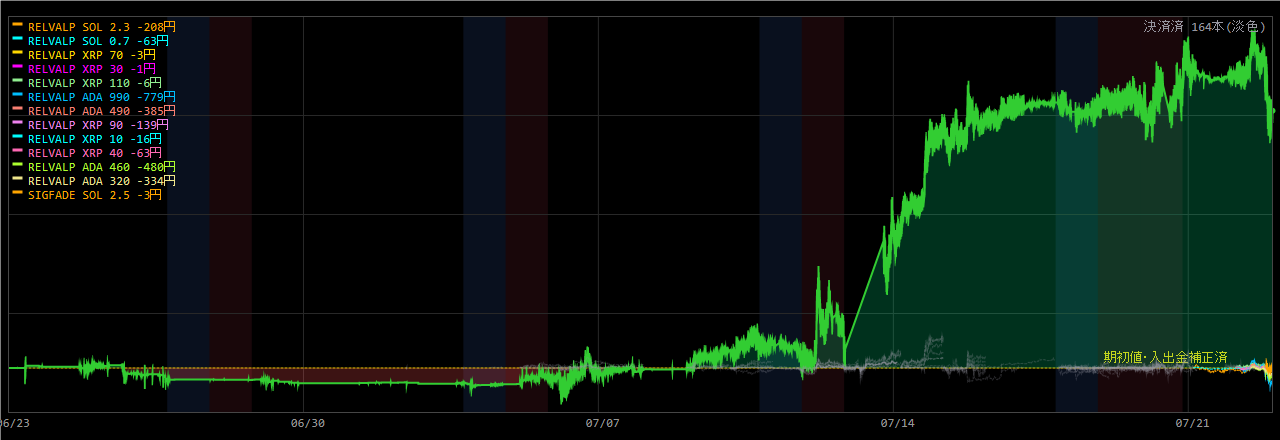
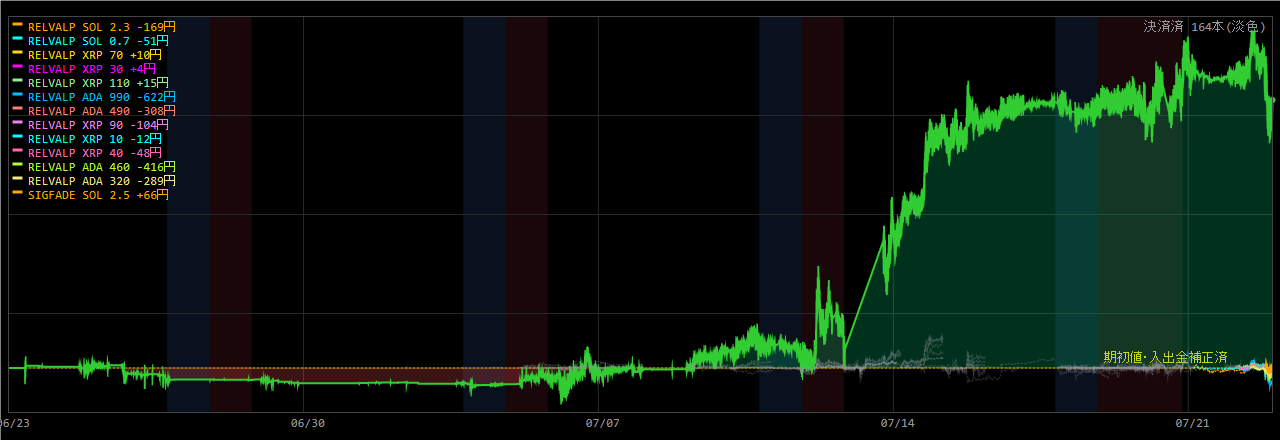
Coin100S 運用状況更新 07-23 03:17

diff --git a/coin100s-795hc4jfv8/index.html b/coin100s-795hc4jfv8/index.html
@@ -14,16 +14,16 @@ a{color:#60a5fa;text-decoration:none} a:hover{text-decoration:underline}
 .meta{color:#94a3b8;font-size:13px}</style>
 <script>setTimeout(function(){location.replace(location.pathname+"?t="+Date.now());},300000);</script></head><body>
 <h1>Coin100S ダッシュボード</h1>
-<p class="meta">スナップショット: 2026-07-23 03:11:05(自動リロード・最新化)</p>
+<p class="meta">スナップショット: 2026-07-23 03:17:05(自動リロード・最新化)</p>
 <div class="cards">
 <div class="card">建玉数<div class="v">13</div></div>
 <div class="card">本日損益<div class="v pos">+490円</div></div>
-<div class="card">評価損益<div class="v neg">-2,319円</div></div>
+<div class="card">評価損益<div class="v neg">-1,868円</div></div>
 </div>
 <h2>現在の建玉</h2>
-<table><tr><th>銘柄</th><th>側</th><th>数量</th><th>建値</th><th>含損益</th><th>レッグ</th></tr><tr><td>ADA_JPY</td><td>SELL</td><td>320</td><td>@28</td><td>-330円</td><td>RELVALP_SL700</td></tr><tr><td>ADA_JPY</td><td>SELL</td><td>460</td><td>@28</td><td>-474円</td><td>RELVALP_SELL</td></tr><tr><td>ADA_JPY</td><td>SELL</td><td>490</td><td>@28</td><td>-377円</td><td>RELVALP_SL700</td></tr><tr><td>ADA_JPY</td><td>SELL</td><td>990</td><td>@28</td><td>-762円</td><td>RELVALP_SELL</td></tr><tr><td>SOL_JPY</td><td>SELL</td><td>2.5</td><td>@12,763</td><td>+52円</td><td>SIGFADE_SOL</td></tr><tr><td>SOL_JPY</td><td>SELL</td><td>0.7</td><td>@12,663</td><td>-56円</td><td>RELVALP_SL700</td></tr><tr><td>SOL_JPY</td><td>SELL</td><td>2.3</td><td>@12,663</td><td>-182円</td><td>RELVALP_SELL</td></tr><tr><td>XRP_JPY</td><td>SELL</td><td>40</td><td>@186</td><td>-56円</td><td>RELVALP_SL700</td></tr><tr><td>XRP_JPY</td><td>SELL</td><td>10</td><td>@186</td><td>-14円</td><td>RELVALP_SELL</td></tr><tr><td>XRP_JPY</td><td>SELL</td><td>90</td><td>@186</td><td>-122円</td><td>RELVALP_SELL</td></tr><tr><td>XRP_JPY</td><td>SELL</td><td>110</td><td>@187</td><td>+1円</td><td>RELVALP_SELL</td></tr><tr><td>XRP_JPY</td><td>SELL</td><td>30</td><td>@187</td><td>0円</td><td>RELVALP_SELL</td></tr><tr><td>XRP_JPY</td><td>SELL</td><td>70</td><td>@187</td><td>+1円</td><td>RELVALP_SL700</td></tr></table>
+<table><tr><th>銘柄</th><th>側</th><th>数量</th><th>建値</th><th>含損益</th><th>レッグ</th></tr><tr><td>ADA_JPY</td><td>SELL</td><td>320</td><td>@28</td><td>-274円</td><td>RELVALP_SL700</td></tr><tr><td>ADA_JPY</td><td>SELL</td><td>460</td><td>@28</td><td>-393円</td><td>RELVALP_SELL</td></tr><tr><td>ADA_JPY</td><td>SELL</td><td>490</td><td>@28</td><td>-292円</td><td>RELVALP_SL700</td></tr><tr><td>ADA_JPY</td><td>SELL</td><td>990</td><td>@28</td><td>-589円</td><td>RELVALP_SELL</td></tr><tr><td>SOL_JPY</td><td>SELL</td><td>2.5</td><td>@12,763</td><td>+52円</td><td>SIGFADE_SOL</td></tr><tr><td>SOL_JPY</td><td>SELL</td><td>0.7</td><td>@12,663</td><td>-56円</td><td>RELVALP_SL700</td></tr><tr><td>SOL_JPY</td><td>SELL</td><td>2.3</td><td>@12,663</td><td>-182円</td><td>RELVALP_SELL</td></tr><tr><td>XRP_JPY</td><td>SELL</td><td>40</td><td>@186</td><td>-54円</td><td>RELVALP_SL700</td></tr><tr><td>XRP_JPY</td><td>SELL</td><td>10</td><td>@186</td><td>-14円</td><td>RELVALP_SELL</td></tr><tr><td>XRP_JPY</td><td>SELL</td><td>90</td><td>@186</td><td>-117円</td><td>RELVALP_SELL</td></tr><tr><td>XRP_JPY</td><td>SELL</td><td>110</td><td>@187</td><td>+7円</td><td>RELVALP_SELL</td></tr><tr><td>XRP_JPY</td><td>SELL</td><td>30</td><td>@187</td><td>+2円</td><td>RELVALP_SELL</td></tr><tr><td>XRP_JPY</td><td>SELL</td><td>70</td><td>@187</td><td>+5円</td><td>RELVALP_SL700</td></tr></table>
 <p><a href="status.html"><b>▶ 運用状況の詳細(チャート・本日の取引・レジーム)</b></a></p>
 <h2>日報一覧</h2>
 <table><tr><th>取引日</th><th>実現損益</th><th>総括</th></tr><tr><td><a href='reports/20260721_Coin100S日報.html'>2026-07-21</a></td><td class="pos">+0円</td><td class='meta'>実取引: 新規4件/決済13件、実現損益 +0円。⚠警告/エラー 13件（要確認）。</td></tr><tr><td><a href='reports/20260720_Coin100S日報.html'>2026-07-20</a></td><td class="pos">+0円</td><td class='meta'>実取引: 新規8件/決済21件、実現損益 +0円。シグナル却下8件（最多: BW10M3_5M／トレンド方向ゲート(N分傾き上と不一致=逆張り方向のfade禁止)）。⚠警告/エラー 13件（要確認）。</td></tr><tr><td><a href='reports/20260719_Coin100S日報.html'>2026-07-19</a></td><td class="pos">+0円</td><td class='meta'>実取引: 新規10件/決済7件、実現損益 +0円。⚠警告/エラー 3件（要確認）。</td></tr><tr><td><a href='reports/20260718_Coin100S日報.html'>2026-07-18</a></td><td class="pos">+0円</td><td class='meta'>実取引: 新規9件/決済8件、実現損益 +0円。警告/孤児/エラーなし＝健全。</td></tr><tr><td><a href='reports/20260717_Coin100S日報.html'>2026-07-17</a></td><td class="pos">+0円</td><td class='meta'>実取引: 新規3件/決済2件、実現損益 +0円。シグナル却下1件（最多: BW10M3_5M／トレンド方向ゲート(N分傾き下と不一致=逆張り方向のfade禁止)）。⚠警告/エラー 2件（要確認）。</td></tr><tr><td><a href='reports/20260716_Coin100S日報.html'>2026-07-16</a></td><td class="pos">+0円</td><td class='meta'>実取引: 新規0件/決済5件、実現損益 +0円。⚠警告/エラー 7件（要確認）。</td></tr><tr><td><a href='reports/20260715_Coin100S日報.html'>2026-07-15</a></td><td class="pos">+0円</td><td class='meta'>実取引: 新規6件/決済5件、実現損益 +0円。シグナル却下6件（最多: BW10M3_5M／トレンド方向ゲート(N分傾き上と不一致=逆張り方向のfade禁止)）。⚠警告/エラー 7件（要確認）。</td></tr><tr><td><a href='reports/20260714_Coin100S日報.html'>2026-07-14</a></td><td class="pos">+0円</td><td class='meta'>実取引: 新規6件/決済18件、実現損益 +0円。シグナル却下5件（最多: BW10M3_5M／トレンド方向ゲート(N分傾き上と不一致=逆張り方向のfade禁止)）。⚠警告/エラー 9件（要確認）。</td></tr><tr><td><a href='reports/20260713_Coin100S日報.html'>2026-07-13</a></td><td class="pos">+0円</td><td class='meta'>実取引: 新規5件/決済8件、実現損益 +0円。シグナル却下1件（最多: BW10M3_5M／トレンド方向ゲート(N分傾き上と不一致=逆張り方向のfade禁止)）。警告/孤児/エラーなし＝健全。</td></tr><tr><td><a href='reports/20260712_Coin100S日報.html'>2026-07-12</a></td><td class="pos">+0円</td><td class='meta'>実取引: 新規14件/決済6件、実現損益 +0円。シグナル却下5件（最多: BW10M3_5M／トレンド方向ゲート(N分傾き下と不一致=逆張り方向のfade禁止)）。⚠警告/エラー 2件（要確認）。</td></tr><tr><td><a href='reports/20260711_Coin100S日報.html'>2026-07-11</a></td><td class="pos">+0円</td><td class='meta'>実取引: 新規7件/決済6件、実現損益 +0円。⚠警告/エラー 52件（要確認）。</td></tr><tr><td><a href='reports/20260710_Coin100S日報.html'>2026-07-10</a></td><td class="pos">+0円</td><td class='meta'>実取引: 新規7件/決済6件、実現損益 +0円。シグナル却下6件（最多: BW10M3_5M／トレンド方向ゲート(N分傾き上と不一致=逆張り方向のfade禁止)）。警告/孤児/エラーなし＝健全。</td></tr><tr><td><a href='reports/20260709_Coin100S日報.html'>2026-07-09</a></td><td class="pos">+0円</td><td class='meta'>実取引: 新規8件/決済3件、実現損益 +0円。シグナル却下5件（最多: SD120M_5M／トレンド方向ゲート(N分傾き上と不一致=逆張り方向のfade禁止)）。警告/孤児/エラーなし＝健全。</td></tr><tr><td><a href='reports/20260708_Coin100S日報.html'>2026-07-08</a></td><td class="pos">+0円</td><td class='meta'>実取引: 新規2件/決済4件、実現損益 +0円。シグナル却下4件（最多: SD120M_5M／トレンド方向ゲート(N分傾き下と不一致=逆張り方向のfade禁止)）。警告/孤児/エラーなし＝健全。</td></tr><tr><td><a href='reports/20260707_Coin100S日報.html'>2026-07-07</a></td><td class="pos">+0円</td><td class='meta'>実取引: 新規8件/決済6件、実現損益 +0円。シグナル却下4件（最多: SD120M_5M／トレンド方向ゲート(N分傾き上と不一致=逆張り方向のfade禁止)）。⚠警告/エラー 258件（要確認）。</td></tr><tr><td><a href='reports/20260706_Coin100S日報.html'>2026-07-06</a></td><td class="pos">+0円</td><td class='meta'>実取引: 新規9件/決済6件、実現損益 +0円。シグナル却下9件（最多: SD120M_5M／トレンド方向ゲート(N分傾き上と不一致=逆張り方向のfade禁止)）。⚠警告/エラー 150件（要確認）。</td></tr><tr><td><a href='reports/20260705_Coin100S日報.html'>2026-07-05</a></td><td class="pos">+0円</td><td class='meta'>実取引: 新規8件/決済3件、実現損益 +0円。⚠警告/エラー 2件（要確認）。</td></tr><tr><td><a href='reports/20260704_Coin100S日報.html'>2026-07-04</a></td><td class="pos">+0円</td><td class='meta'>実取引: 新規1件/決済2件、実現損益 +0円。⚠警告/エラー 2件（要確認）。</td></tr><tr><td><a href='reports/20260703_Coin100S日報.html'>2026-07-03</a></td><td class="pos">+0円</td><td class='meta'>実取引: 新規5件/決済4件、実現損益 +0円。⚠警告/エラー 15件（要確認）。</td></tr><tr><td><a href='reports/20260702_Coin100S日報.html'>2026-07-02</a></td><td class="pos">+0円</td><td class='meta'>実取引: 新規7件/決済5件、実現損益 +0円。シグナル却下17件（最多: SD120M_5M／トレンド方向ゲート(N分傾き上と不一致=逆張り方向のfade禁止)）。⚠警告/エラー 26件（要確認）。</td></tr><tr><td><a href='reports/20260701_Coin100S日報.html'>2026-07-01</a></td><td class="pos">+0円</td><td class='meta'>実取引: 新規14件/決済8件、実現損益 +0円。シグナル却下14件（最多: SD120M_5M／ボラ軸ゲート(SDN%&amp;gt;N%=高ボラ/荒れレンジ)）。⚠警告/エラー 2件（要確認）。</td></tr><tr><td><a href='reports/20260630_Coin100S日報.html'>2026-06-30</a></td><td class="pos">+0円</td><td class='meta'>実取引: 新規0件/決済1件、実現損益 +0円。シグナル却下29件（最多: 微5M／当日枠N）。警告/孤児/エラーなし＝健全。</td></tr></table>
-<hr><p class="meta">更新: 2026-07-23 03:11:07 / 自動生成: tools/web_publish.py(§580)</p>
+<hr><p class="meta">更新: 2026-07-23 03:17:06 / 自動生成: tools/web_publish.py(§580)</p>
 </body></html>

diff --git a/coin100s-795hc4jfv8/status.html b/coin100s-795hc4jfv8/status.html
@@ -14,22 +14,22 @@ a{color:#60a5fa;text-decoration:none} a:hover{text-decoration:underline}
 .meta{color:#94a3b8;font-size:13px}</style>
 <script>setTimeout(function(){location.replace(location.pathname+"?t="+Date.now());},300000);</script></head><body>
 <h1>Coin100S 運用状況</h1>
-<p class="meta">スナップショット: 2026-07-23 03:10:35 / ページ生成: 2026-07-23 03:11:07(自動リロード・最新化) / <a href="index.html">目次へ</a></p>
+<p class="meta">スナップショット: 2026-07-23 03:16:35 / ページ生成: 2026-07-23 03:17:06(自動リロード・最新化) / <a href="index.html">目次へ</a></p>
 <div class="cards">
 <div class="card">建玉数<div class="v">13</div></div>
 <div class="card">本日損益<div class="v pos">+490円</div></div>
-<div class="card">評価損益<div class="v neg">-2,260円</div></div>
+<div class="card">評価損益<div class="v neg">-1,868円</div></div>
 </div>
 <h2>資産推移(直近30日)</h2>
-<img src="status_equity.png?t=0311" alt="equity">
+<img src="status_equity.png?t=0317" alt="equity">
 <h2>取引チャート(直近24h)</h2>
-<img src="status_chart.png?t=0311" alt="chart">
+<img src="status_chart.png?t=0317" alt="chart">
 <h2>建玉一覧</h2>
-<table><tr><th>銘柄</th><th>側</th><th>数量</th><th>建値</th><th>含損益</th><th>レッグ</th></tr><tr><td>ADA_JPY</td><td>SELL</td><td>320</td><td>@28</td><td>-330円</td><td>RELVALP_SL700</td></tr><tr><td>ADA_JPY</td><td>SELL</td><td>460</td><td>@28</td><td>-474円</td><td>RELVALP_SELL</td></tr><tr><td>ADA_JPY</td><td>SELL</td><td>490</td><td>@28</td><td>-377円</td><td>RELVALP_SL700</td></tr><tr><td>ADA_JPY</td><td>SELL</td><td>990</td><td>@28</td><td>-762円</td><td>RELVALP_SELL</td></tr><tr><td>SOL_JPY</td><td>SELL</td><td>2.5</td><td>@12,763</td><td>+52円</td><td>SIGFADE_SOL</td></tr><tr><td>SOL_JPY</td><td>SELL</td><td>0.7</td><td>@12,663</td><td>-56円</td><td>RELVALP_SL700</td></tr><tr><td>SOL_JPY</td><td>SELL</td><td>2.3</td><td>@12,663</td><td>-182円</td><td>RELVALP_SELL</td></tr><tr><td>XRP_JPY</td><td>SELL</td><td>40</td><td>@186</td><td>-49円</td><td>RELVALP_SL700</td></tr><tr><td>XRP_JPY</td><td>SELL</td><td>10</td><td>@186</td><td>-13円</td><td>RELVALP_SELL</td></tr><tr><td>XRP_JPY</td><td>SELL</td><td>90</td><td>@186</td><td>-107円</td><td>RELVALP_SELL</td></tr><tr><td>XRP_JPY</td><td>SELL</td><td>110</td><td>@187</td><td>+20円</td><td>RELVALP_SELL</td></tr><tr><td>XRP_JPY</td><td>SELL</td><td>30</td><td>@187</td><td>+5円</td><td>RELVALP_SELL</td></tr><tr><td>XRP_JPY</td><td>SELL</td><td>70</td><td>@187</td><td>+13円</td><td>RELVALP_SL700</td></tr></table>
+<table><tr><th>銘柄</th><th>側</th><th>数量</th><th>建値</th><th>含損益</th><th>レッグ</th></tr><tr><td>ADA_JPY</td><td>SELL</td><td>320</td><td>@28</td><td>-274円</td><td>RELVALP_SL700</td></tr><tr><td>ADA_JPY</td><td>SELL</td><td>460</td><td>@28</td><td>-393円</td><td>RELVALP_SELL</td></tr><tr><td>ADA_JPY</td><td>SELL</td><td>490</td><td>@28</td><td>-292円</td><td>RELVALP_SL700</td></tr><tr><td>ADA_JPY</td><td>SELL</td><td>990</td><td>@28</td><td>-589円</td><td>RELVALP_SELL</td></tr><tr><td>SOL_JPY</td><td>SELL</td><td>2.5</td><td>@12,763</td><td>+52円</td><td>SIGFADE_SOL</td></tr><tr><td>SOL_JPY</td><td>SELL</td><td>0.7</td><td>@12,663</td><td>-56円</td><td>RELVALP_SL700</td></tr><tr><td>SOL_JPY</td><td>SELL</td><td>2.3</td><td>@12,663</td><td>-182円</td><td>RELVALP_SELL</td></tr><tr><td>XRP_JPY</td><td>SELL</td><td>40</td><td>@186</td><td>-49円</td><td>RELVALP_SL700</td></tr><tr><td>XRP_JPY</td><td>SELL</td><td>10</td><td>@186</td><td>-13円</td><td>RELVALP_SELL</td></tr><tr><td>XRP_JPY</td><td>SELL</td><td>90</td><td>@186</td><td>-108円</td><td>RELVALP_SELL</td></tr><tr><td>XRP_JPY</td><td>SELL</td><td>110</td><td>@187</td><td>+19円</td><td>RELVALP_SELL</td></tr><tr><td>XRP_JPY</td><td>SELL</td><td>30</td><td>@187</td><td>+5円</td><td>RELVALP_SELL</td></tr><tr><td>XRP_JPY</td><td>SELL</td><td>70</td><td>@187</td><td>+12円</td><td>RELVALP_SL700</td></tr></table>
 <h2>実現決済履歴(直近15件・OrderId単位)</h2>
 <table><tr><th>決済時刻</th><th>レッグ</th><th>銘柄</th><th>実現損益</th></tr><tr><td>07-23 01:34</td><td>SIGFADE_BTC</td><td>BTC</td><td class="pos">+27円</td></tr><tr><td>07-22 09:08</td><td>SIGFADE_SOL</td><td>SOL</td><td class="pos">+220円</td></tr><tr><td>07-22 09:08</td><td>SIGFADE_ETH</td><td>ETH</td><td class="pos">+243円</td></tr><tr><td>07-21 08:07</td><td>TENKI5D_REV_DOGE</td><td>DOGE</td><td class="neg">-210円</td></tr><tr><td>07-21 06:11</td><td>TENKI5D_REV_ETH</td><td>ETH</td><td class="pos">+622円</td></tr><tr><td>07-21 06:11</td><td>TENKI5D_REV_ETH</td><td>ETH</td><td class="pos">+124円</td></tr><tr><td>07-21 06:09</td><td>TENKI5D_REV_SOL</td><td>SOL</td><td class="pos">+287円</td></tr><tr><td>07-21 06:09</td><td>TENKI5D_REV_SOL</td><td>SOL</td><td class="pos">+454円</td></tr><tr><td>07-21 06:09</td><td>TENKI5D_REV_BTC</td><td>BTC</td><td class="pos">+649円</td></tr><tr><td>07-21 06:08</td><td>RELVALP_SELL</td><td>LTC</td><td class="neg">-267円</td></tr><tr><td>07-21 06:08</td><td>RELVALP_SL700</td><td>LTC</td><td class="neg">-90円</td></tr><tr><td>07-20 23:29</td><td>BW10M3_5M</td><td>BTC</td><td class="neg">-45円</td></tr><tr><td>07-20 10:58</td><td>BW10M3_5M</td><td>BTC</td><td class="pos">+7円</td></tr><tr><td>07-20 09:56</td><td>BW10M3_5M</td><td>BTC</td><td class="neg">-6円</td></tr><tr><td>07-20 09:11</td><td>SIGFADE_ETH</td><td>ETH</td><td class="pos">+370円</td></tr></table>
 <!-- §799c 「本取引日の実取引(6:00起点)」テーブルは公開ページから削除(ユーザー指示2026-07-15・数量/指値まで晒す情報漏れ)。建玉/実現損益は許可・実発注の生取引明細は非公開 -->
 <h2>現在レジーム(3軸・§570c)</h2>
-<ul><li>アルト対BTC 5日: <b>-85bps</b>(アルト劣後=RELVAL順風)</li><li>BTC ER240m: <b>0.008</b>(閾値0.25→レンジ(fade順風/BWTRD逆風))</li><li>BTC実現ボラ240m: <b>5.01</b> bps/分</li></ul>
+<ul><li>アルト対BTC 5日: <b>-85bps</b>(アルト劣後=RELVAL順風)</li><li>BTC ER240m: <b>0.038</b>(閾値0.25→レンジ(fade順風/BWTRD逆風))</li><li>BTC実現ボラ240m: <b>4.86</b> bps/分</li></ul>
 <hr><p class="meta">自動生成: tools/web_publish.py(§580・読み取り専用)。売買判断はアプリ本体。</p>
 </body></html>
